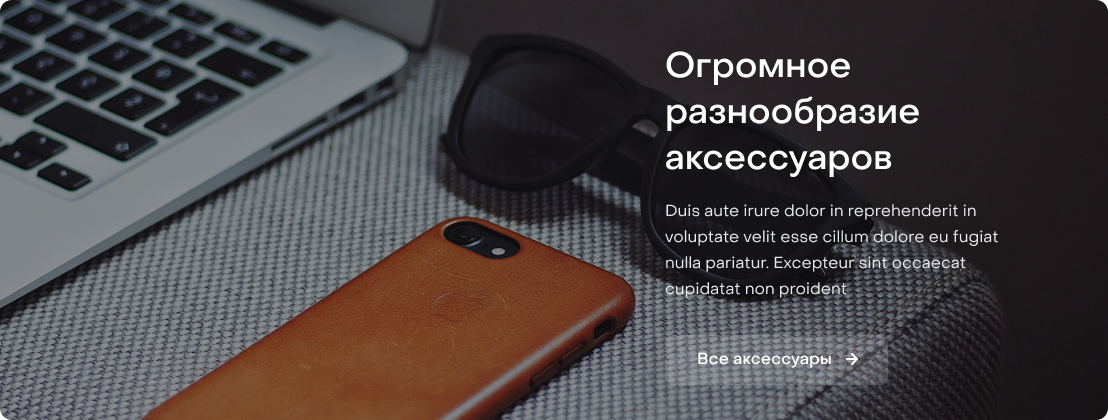
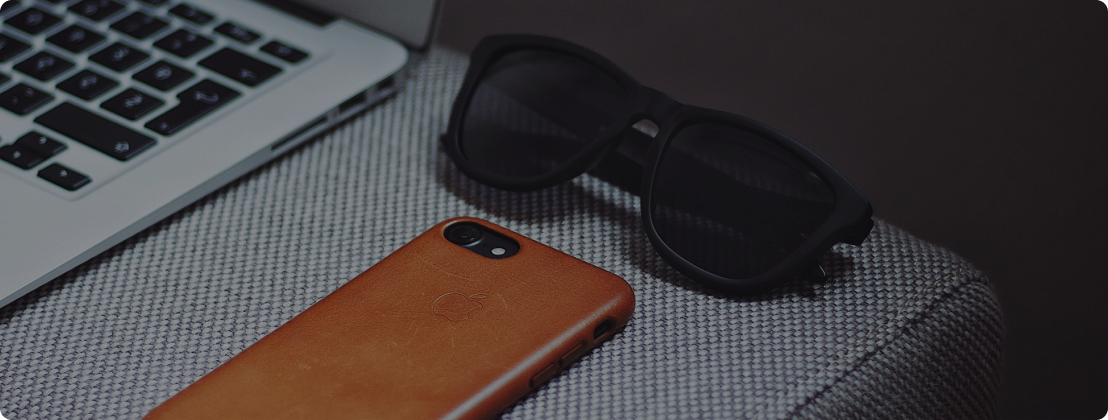
added MainPoster component

diff --git a/src/components/Main/Main.js b/src/components/Main/Main.js
@@ -11,7 +11,7 @@ import phoneImg from "../../img/phone-banner.png"
 import macImg from "../../img/mac-banner.png"
 import tvImg from "../../img/tv-banner.png"
 import podsImg from "../../img/pods-banner.png"
-
+import MainPoster from "../MainPoster/MainPoster";
 
 const Main = () => {
 
@@ -51,14 +51,9 @@ const Main = () => {
           <span className="main__banner__title">AirPods</span>
         </Link>
       </div>
+      <MainPoster header="Только оригинальная техника Apple" text="Duis aute irure dolor in reprehenderit in voluptate velit esse cillum dolore eu fugiat nulla pariatur. Excepteur sint occaecat cupidatat non proident" btnText="Все товары Apple"  modificator="_original-only"/>
 
-      <div className="main__poster">
-        <div className="main__poster__container">
-          <h3 className="main__poster__header">Только оригинальная техника Apple</h3>
-          <p className="main__poster__text">Duis aute irure dolor in reprehenderit in voluptate velit esse cillum dolore eu fugiat nulla pariatur. Excepteur sint occaecat cupidatat non proident</p>
-          <Link className="main__poster__button" to="/all-products">Все товары Apple</Link>
-        </div>
-      </div>
+      <MainPoster header="Огромное разнообразие аксессуаров" text="Duis aute irure dolor in reprehenderit in voluptate velit esse cillum dolore eu fugiat nulla pariatur. Excepteur sint occaecat cupidatat non proident" btnText="Все аксессуары" modificator="_accessories"/>
     </div>
 
 

diff --git a/src/styles/App.scss b/src/styles/App.scss
@@ -690,27 +690,40 @@ body{
   }
 
   &__poster{
-    background-image: url(../img/only-original.png);
     background-repeat: no-repeat;
     background-position: center;
     max-width: 1100px;  
     padding: 70px 0 50px 100px;
     box-sizing: border-box;
-    margin: 0 auto;
+    margin: 0 auto 80px;
     border-radius: 12px;
     background-size: auto 100%;
 
+    &_original-only{
+     background-image: url(../img/only-original.png);
+    }
+
+    &_accessories{
+     background-image: url(../img/accessories-variety.png);
+    }
+
     @media (max-width: 768px) {
       padding: 50px 0px 60px 40px;
+      margin-bottom: 65px;
     }
 
     @media (max-width: 480px){
-      padding: 160px 20px 75px 
+      padding: 160px 20px 75px;
+      margin-bottom: 50px;
     }
 
     &__container{
       @include flex-column-left;
       width: 380px;
+
+      &_accessories{
+        margin-left: auto;
+      }
 
       @media (max-width: 480px){
         width: auto;

diff --git a/src/components/MainPoster/MainPoster.js b/src/components/MainPoster/MainPoster.js
@@ -1,0 +1,17 @@
+import React from "react";
+import { Link } from "react-router-dom";
+
+const MainPoster = ({header, text, btnText, modificator}) =>{
+
+  return (
+    <div className={`main__poster main__poster${modificator}`}>
+        <div className={`main__poster__container main__poster__container${modificator}`}>
+          <h3 className="main__poster__header">{header}</h3>
+          <p className="main__poster__text">{text}</p>
+          <Link className="main__poster__button" to="/all-products">{btnText}</Link>
+        </div>
+      </div>
+  )
+}
+
+export default MainPoster
